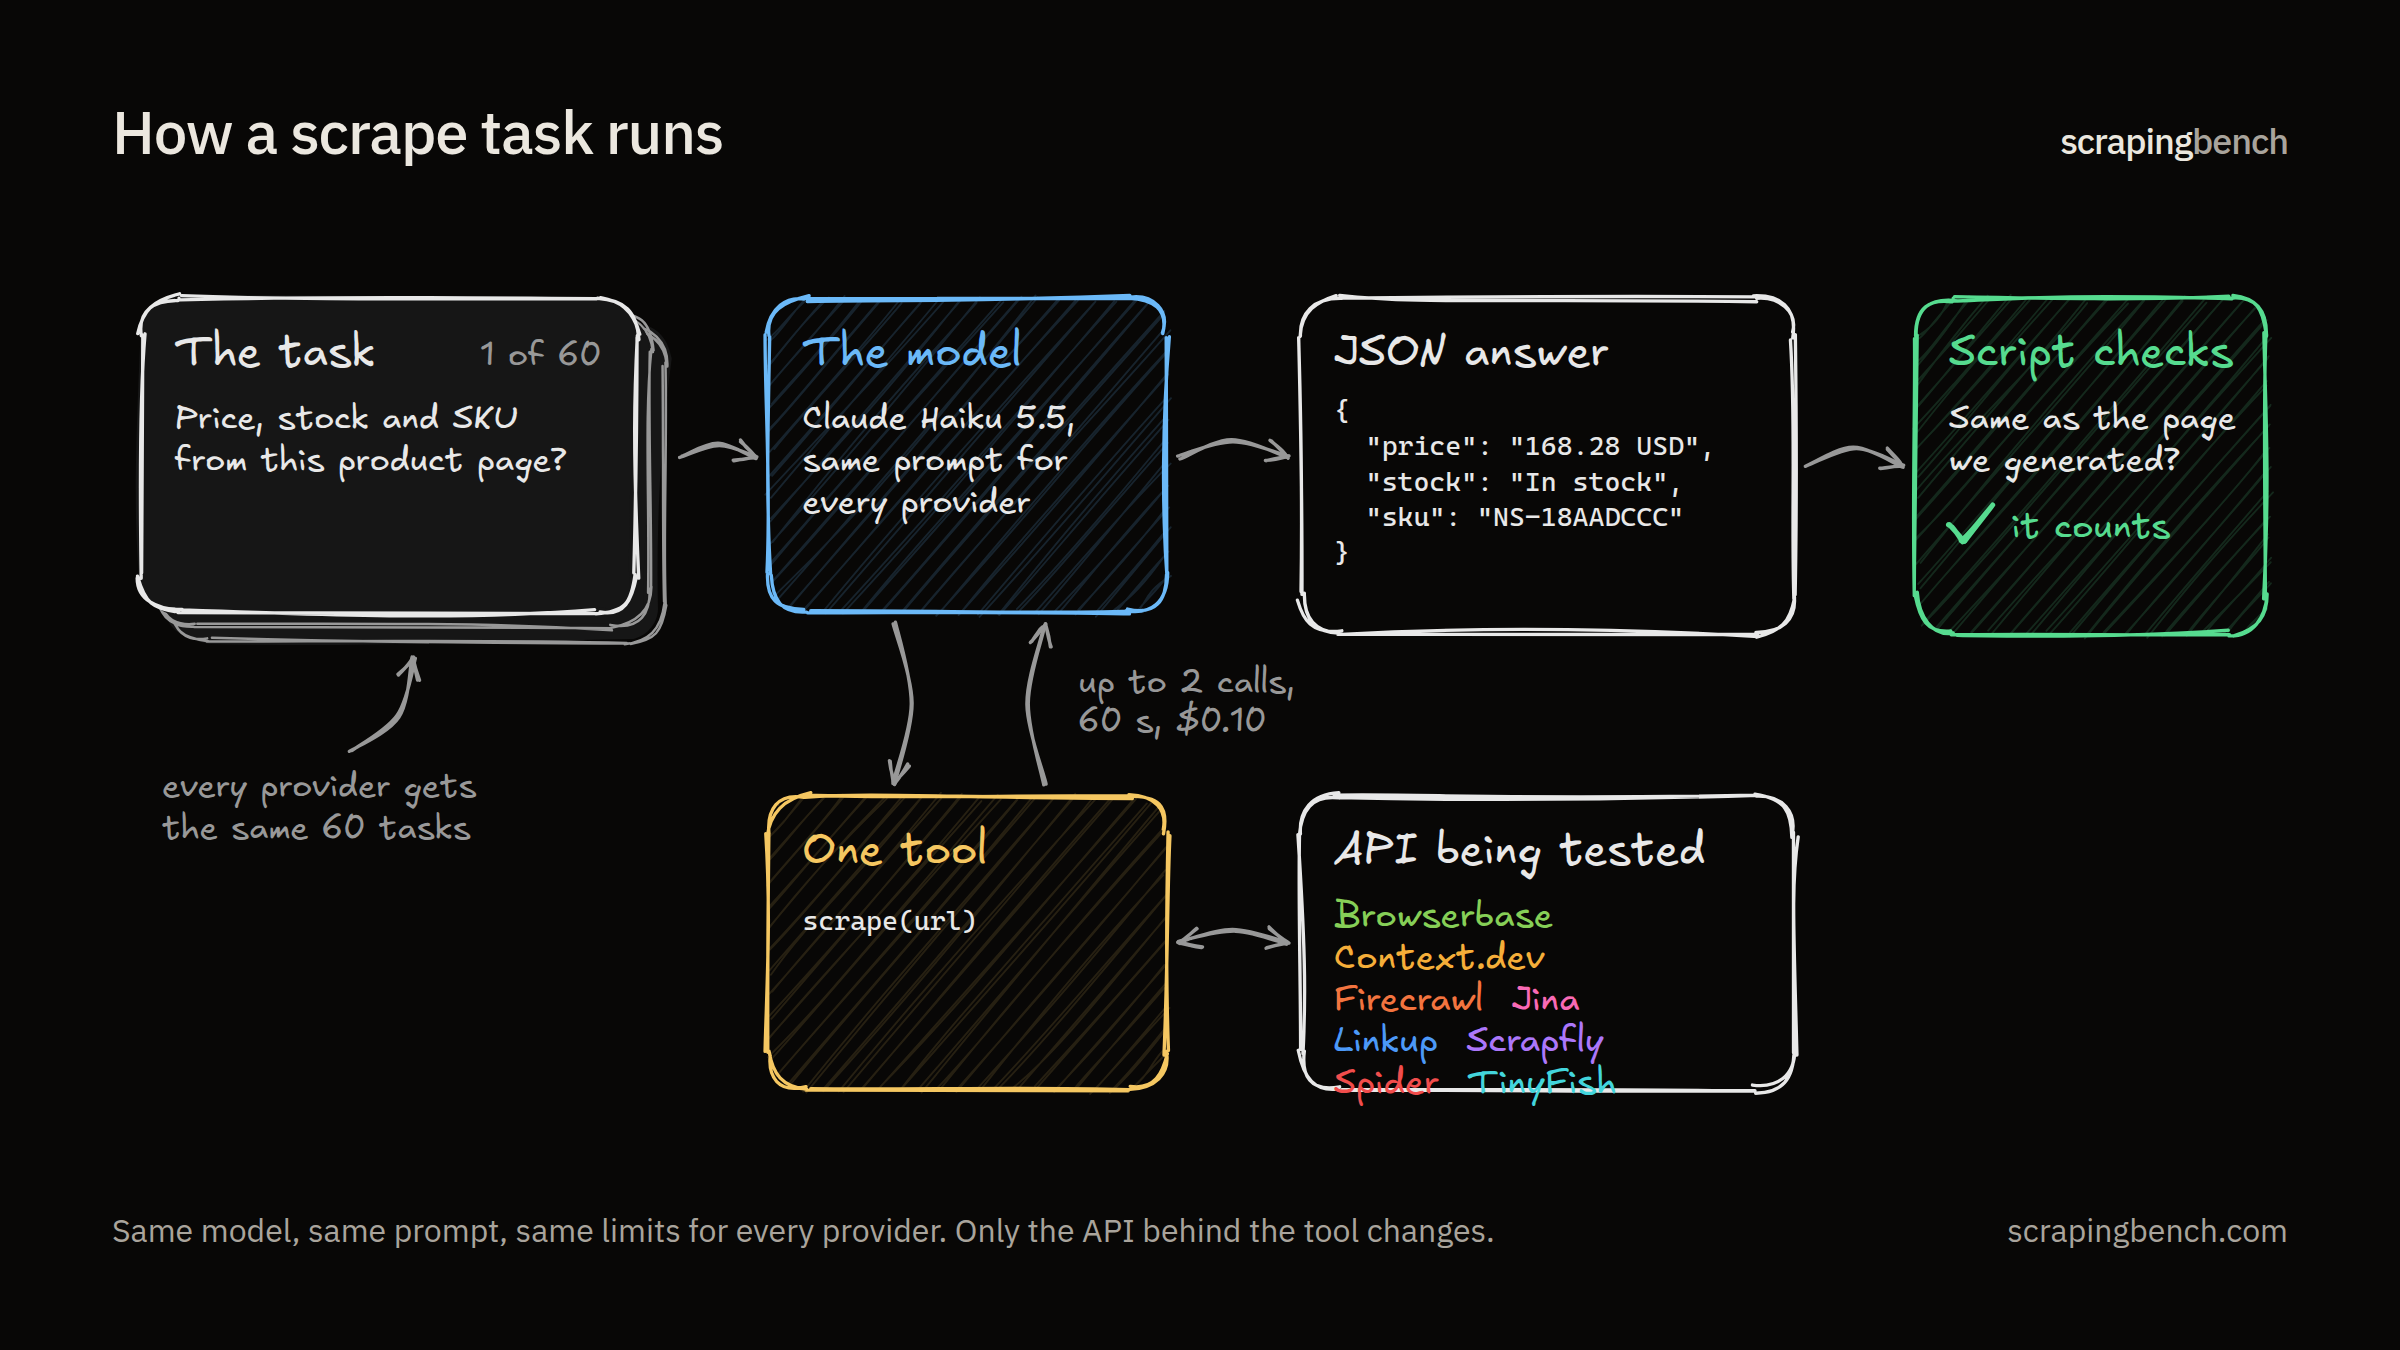
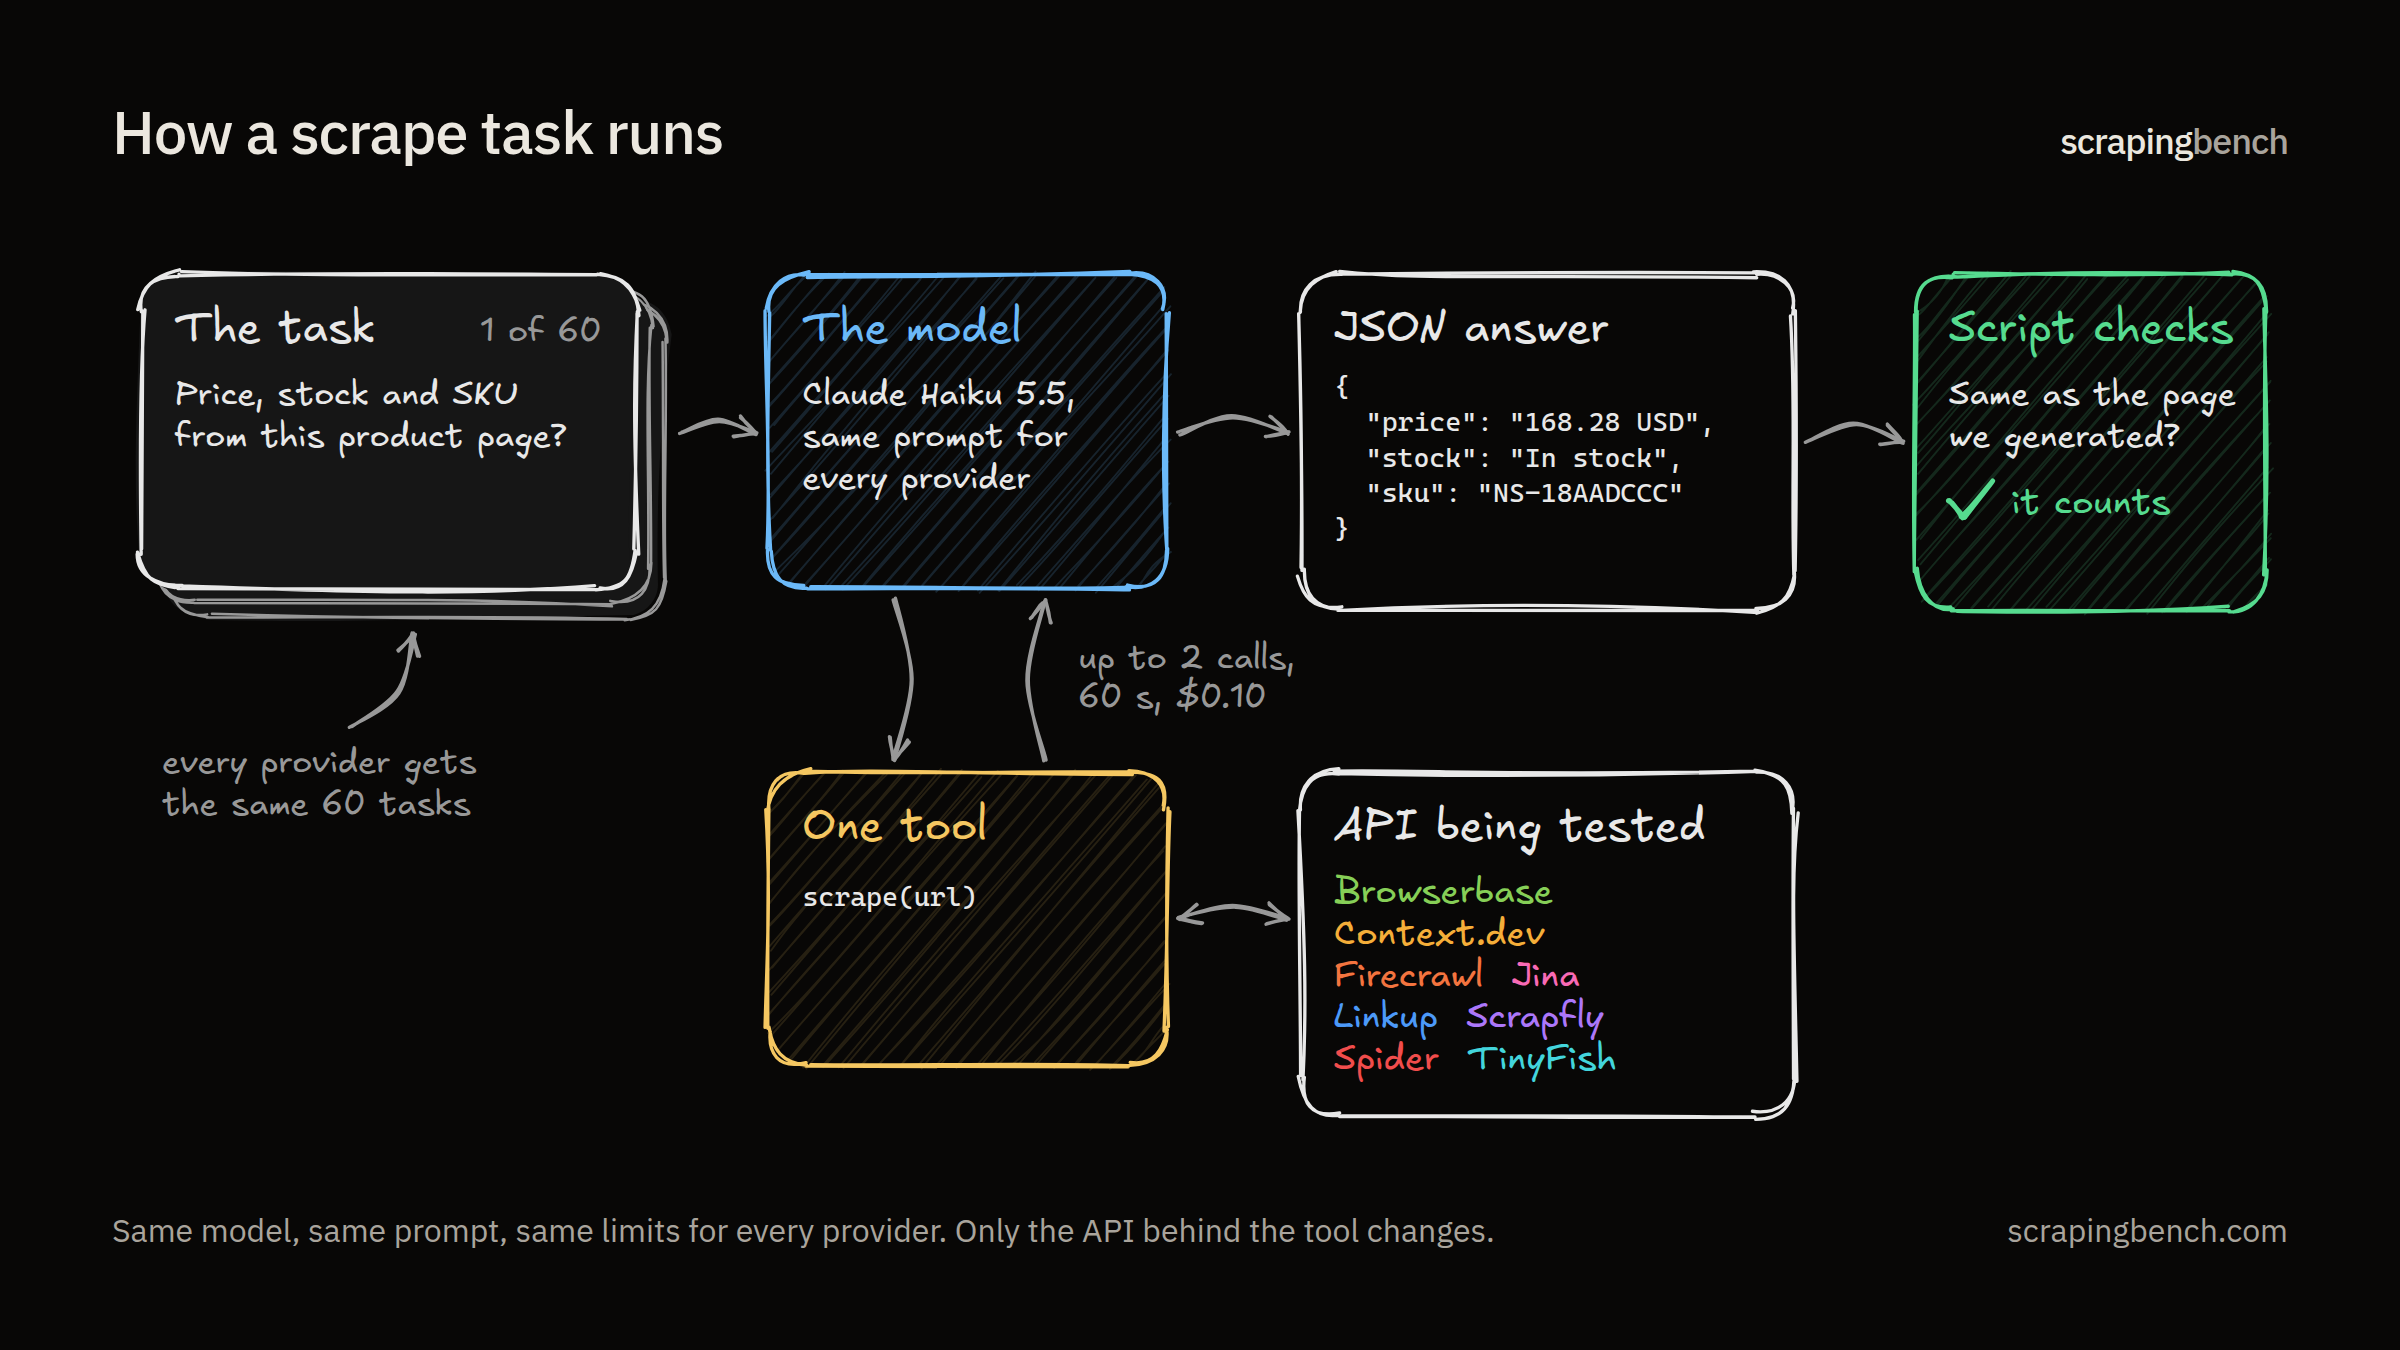
Reshoot the diagram post images with every name inside the API box (#1)
* Draw provider names as plain text on the export cards

The diagram links each provider name on the site. The export cards are
screenshotted into PNGs, where the underlines can't be clicked, so the
export page turns the links off.

Refs SCB-5

* Reshoot the diagram cards with every name inside the API box

The scrape card was shot before the API box grew, so Spider and
TinyFish sat on its bottom edge. All four diagram cards are reshot
from the current build at 2400x1350.

Refs SCB-5

---------

diff --git a/site/src/components/bench/diagram.tsx b/site/src/components/bench/diagram.tsx
@@ -197,7 +197,8 @@ function Lines({ box: b, lines, code = false, top = 62, color = INK }: { box: Bo
   );
 }
 
-export function TaskDiagram({ track, layout, className }: { track: Track; layout: "wide" | "tall"; className?: string }) {
+/** `linked` makes each provider name a link to its homepage; static images turn it off, since a PNG can't be clicked. */
+export function TaskDiagram({ track, layout, className, linked = true }: { track: Track; layout: "wide" | "tall"; className?: string; linked?: boolean }) {
   const base = layout === "wide" ? WIDE : TALL;
   const c = CONTENT[track.id];
   const { limits } = track;
@@ -269,7 +270,7 @@ export function TaskDiagram({ track, layout, className }: { track: Track; layout
             {line.map((n, k) => (
               <tspan key={n.id} style={{ fill: colorOf(n.id) }}>
                 {k > 0 ? "  " : ""}
-                {linkOf(n.id) ? (
+                {linked && linkOf(n.id) ? (
                   <a href={linkOf(n.id)} target="_blank" rel="noopener" style={{ textDecoration: "underline" }}>
                     {n.label}
                   </a>

diff --git a/site/src/app/export/page.tsx b/site/src/app/export/page.tsx
@@ -104,7 +104,7 @@ export default function Export() {
       <Overview />
       {results.tracks.map((t) => (
         <Card key={t.id} id={`export-${t.id}`} title={`How a ${t.label.toLowerCase()} task runs`} footer="Same model, same prompt, same limits for every provider. Only the API behind the tool changes.">
-          <TaskDiagram track={t} layout="wide" className="w-full" />
+          <TaskDiagram track={t} layout="wide" className="w-full" linked={false} />
         </Card>
       ))}
       {results.tracks.map((t) => (
